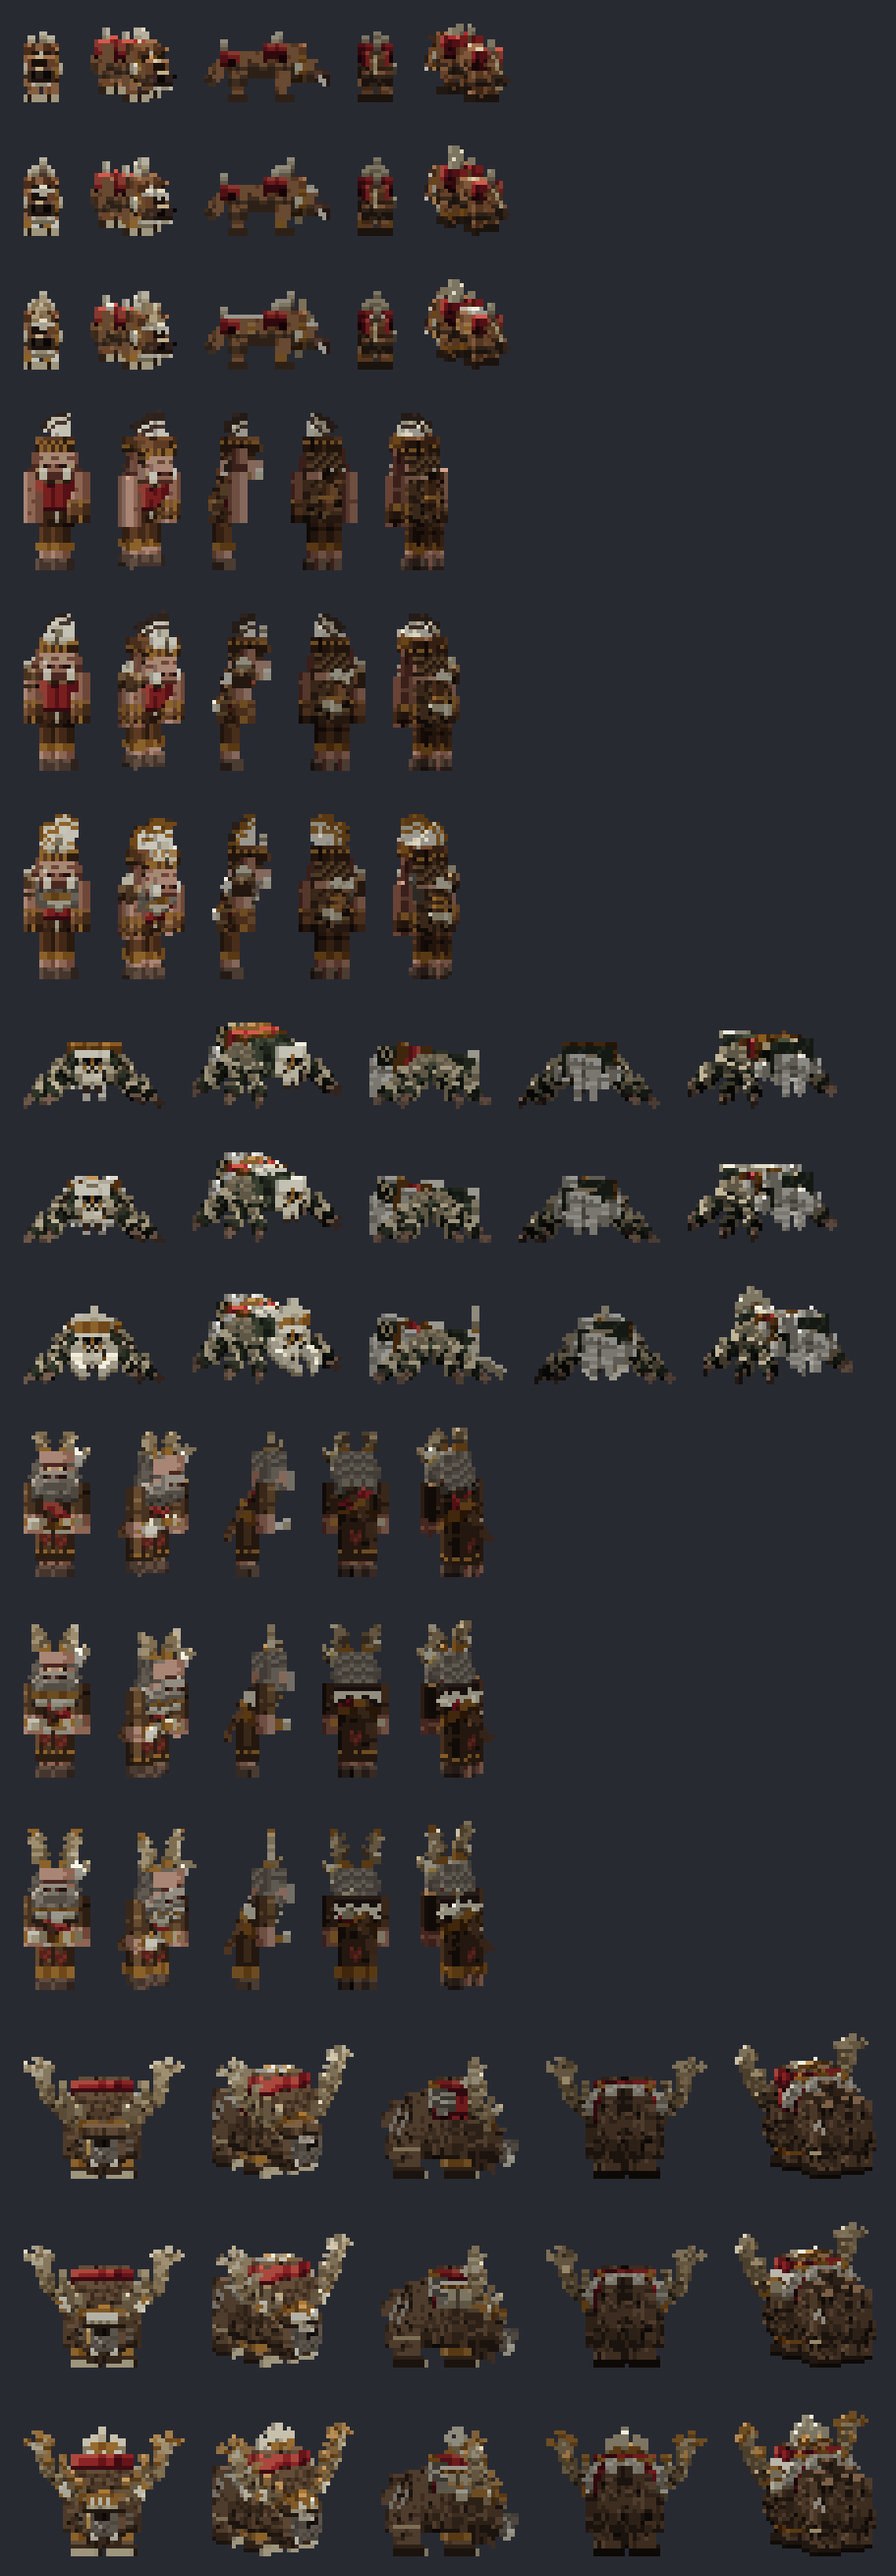
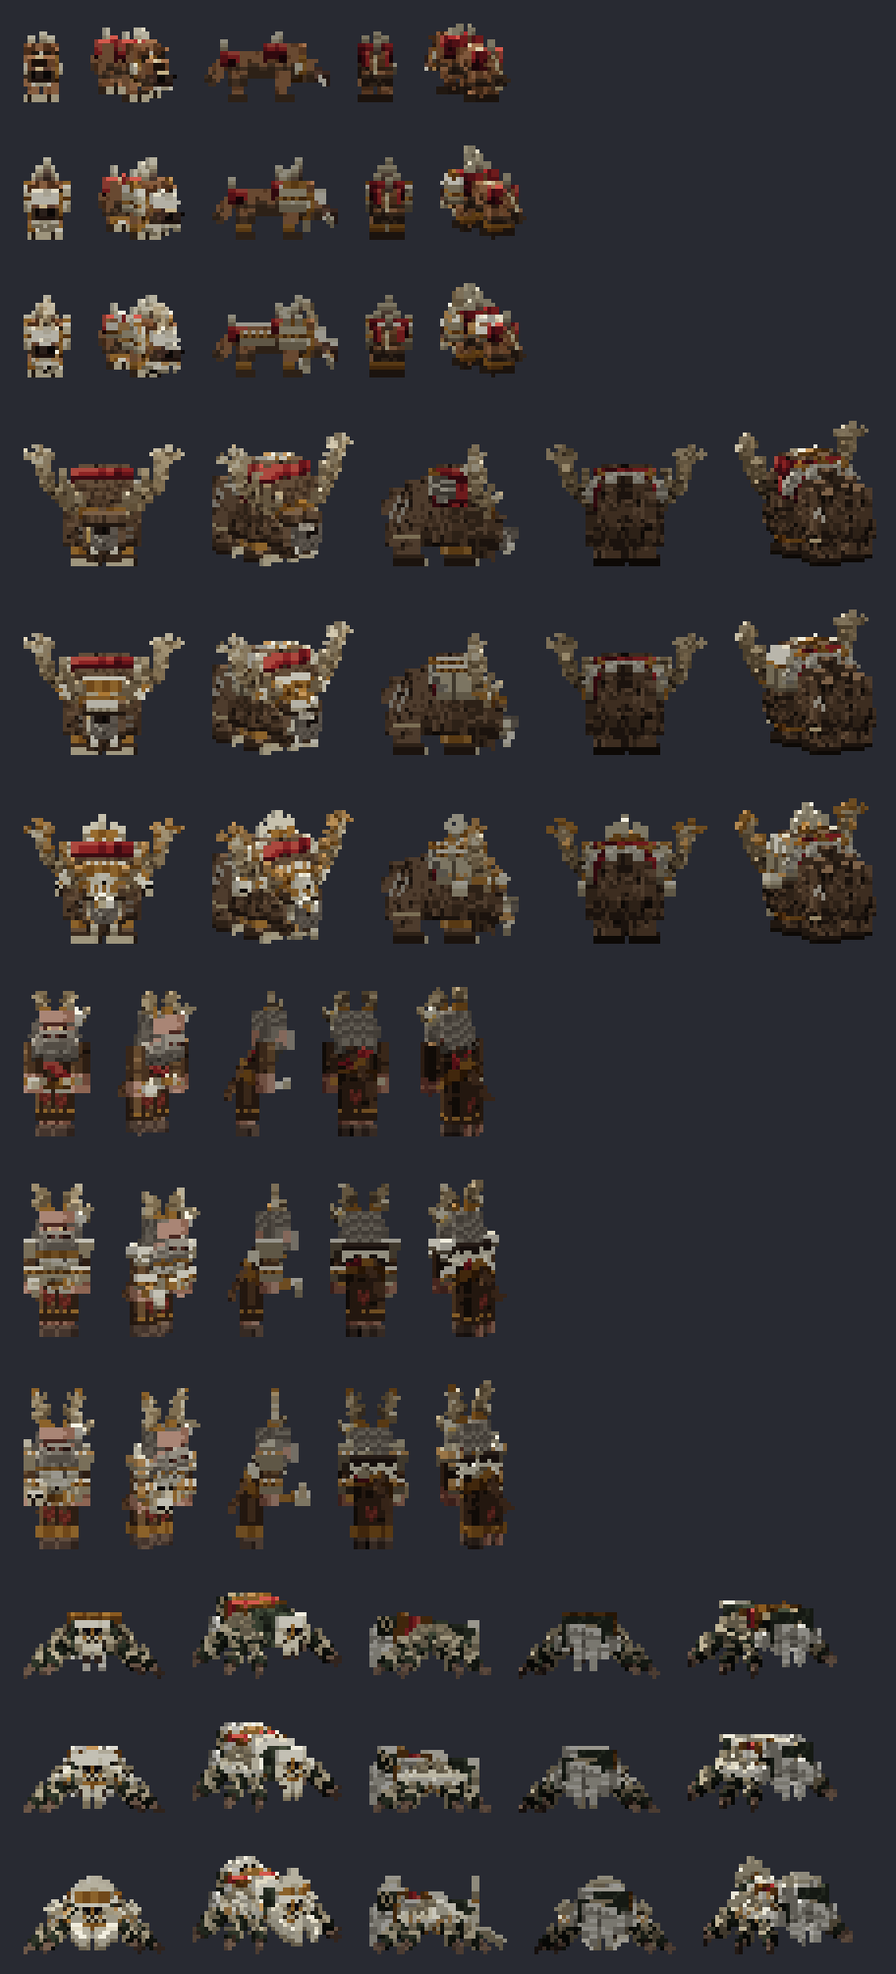
Wildmoot tiers II/III review sheets and weapon-in-hand check

diff --git a/work/wildmoot_weapon_check.py b/work/wildmoot_weapon_check.py
@@ -1,0 +1,32 @@
+"""Wildmoot weapon-in-hand check: each troop at tiers I, II and III (3/4 and side views) with its weapon at the hand bone (the runtime weapon model, grip applied),
+front, 3/4, side and back, offline at 1 texel = 1 px, scaled up.  python work/wildmoot_weapon_check.py [out.png] [scale]"""
+import os, sys, json, importlib.util
+from PIL import Image, ImageDraw
+ROOT = os.path.dirname(os.path.dirname(os.path.abspath(__file__)))
+sys.path.insert(0, os.path.join(ROOT, "art", "hand", "common"))
+import render
+RES = os.path.join(ROOT, "src", "main", "resources", "assets", "gravesandglory")
+dst = sys.argv[1] if len(sys.argv) > 1 else os.path.join(ROOT, "work", "wildmoot-weapons-check.png")
+SC = int(sys.argv[2]) if len(sys.argv) > 2 else 5
+VIEWS = [(-35, 12), (-90, 0)]
+rows = []
+for tid in (os.environ.get("GB_ONLY") or "wm_hound,wm_oldhorn,wm_seer,wm_stalker").split(","):
+    p = os.path.join(ROOT, "art", "hand", tid, "build_%s.py" % tid); sys.path.insert(0, os.path.dirname(p))
+    spec = importlib.util.spec_from_file_location("b_" + tid, p); m = importlib.util.module_from_spec(spec); spec.loader.exec_module(m)
+    T = [v for v in vars(m).values() if v.__class__.__name__ == "Troop"][0]
+    B, skins, cloths = T.build()
+    meta = json.load(open(os.path.join(ROOT, "art", "troops", tid + ".json")))
+    ims = []
+    for t in (1, 2, 3):
+        w = meta["weapon"] if t == 1 else "%s_t%d" % (meta["weapon"], t); extra = []
+        if meta["weapon"] != "none":
+            d = json.load(open(os.path.join(RES, "models", "troop", "weapon", w + ".json")))
+            img = Image.open(os.path.join(RES, "textures", "entity", "troop", "weapon", w + ".png")).convert("RGBA")
+            extra = [(meta["hand"] + "_hand", d["grip"]["offset"], d["grip"]["rotation"], d["frames"][0]["quads"], img)]
+        sk = Image.alpha_composite(skins[t], T.lit) if T.lit else skins[t]
+        ims += [render.render(B, T.visible(t), {"skin": sk, "cloth": cloths["crimson"]}, y, pt, px=1, extra=extra, bg=(150, 154, 166, 255)) for y, pt in VIEWS]
+    rows.append(render.sheet_of(ims, pad=4))
+rows = [r.resize((r.width * SC, r.height * SC), Image.NEAREST) for r in rows]
+out = Image.new("RGBA", (max(r.width for r in rows), sum(r.height for r in rows)), (40, 42, 50, 255)); y = 0
+for r in rows: out.paste(r, (0, y)); y += r.height
+out.save(dst); print(dst, out.size)
